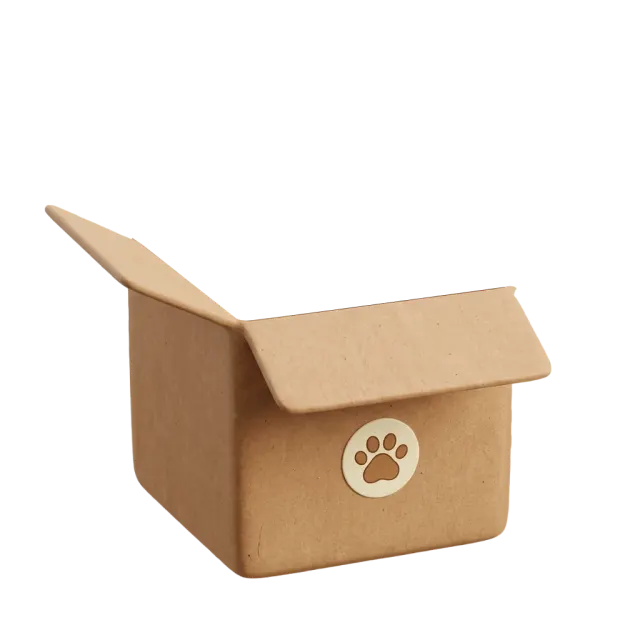
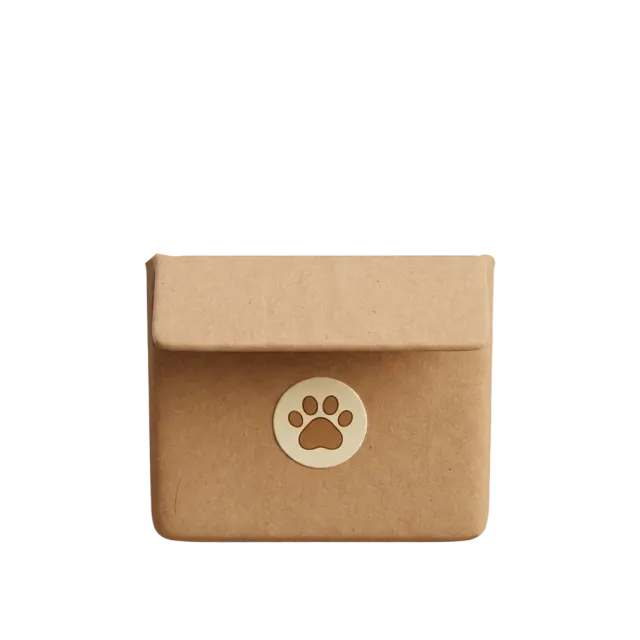
Лендінг: коробка анфас (картинки власника), тварини й обрізка під новий отвір

Changed region(s): [[0.0625, 0.3125, 0.875, 0.9062]]

diff --git a/assets/landing.css b/assets/landing.css
@@ -653,14 +653,14 @@ footer .copy { margin-left: auto; }
 .foot { padding-top: clamp(40px, 6vw, 80px); }
 .foot-cta { align-items: end; }
 .pb { width: min(100%, 400px); display: grid; justify-items: center; gap: 10px; margin-bottom: clamp(28px, 4vw, 48px); }
-.pb-box { position: relative; width: 100%; aspect-ratio: 1; margin: -12% 0 -14%; cursor: pointer; transform-origin: 52% 90%; }
+.pb-box { position: relative; width: 100%; aspect-ratio: 1; margin: -12% 0 -14%; cursor: pointer; transform-origin: 50% 85%; }
 .pb-box > img, .pb-pit, .pb-cast { position: absolute; inset: 0; width: 100%; height: 100%; }
 /* Яма: видно лише над вінцем коробки й усередині її силуету, тож тварина, пірнаючи, не вилазить знизу чи збоку. */
-.pb-pit { clip-path: polygon(0 0, 100% 0, 100% 45%, 79% 45%, 79% 84%, 40% 90.5%, 21% 77%, 21% 45%, 0 45%); }
-.pb-mv { position: absolute; left: 15%; top: 9%; width: 72%; height: auto; aspect-ratio: 1; transition: transform .3s cubic-bezier(.5,0,.75,0); }
+.pb-pit { clip-path: polygon(0 0, 100% 0, 100% 40%, 77% 40%, 77% 84.5%, 23% 84.5%, 23% 40%, 0 40%); }
+.pb-mv { position: absolute; left: 17%; top: 5.5%; width: 66%; height: auto; aspect-ratio: 1; transition: transform .3s cubic-bezier(.5,0,.75,0); }
 /* Підгонка висоти під вид (власник 18.11): кіт трохи нижче, кролик вище. */
-.pb-box[data-sp="cat"] .pb-mv { top: 12%; }
-.pb-box[data-sp="rabbit"] .pb-mv { top: 5%; }
+.pb-box[data-sp="cat"] .pb-mv { top: 8.5%; }
+.pb-box[data-sp="rabbit"] .pb-mv { top: 2%; }
 .pb-box.down .pb-mv { transform: translateY(78%); }
 .pb-box.up .pb-mv { transition: transform .55s cubic-bezier(.3,1.5,.5,1); }
 /* Тінь коробки на тварині: темніє донизу до вінця, по силуету самої тварини. */
@@ -668,7 +668,7 @@ footer .copy { margin-left: auto; }
   background: linear-gradient(to bottom, transparent 38%, rgba(60, 36, 12, .62) 54%); }
 /* Тінь тварини на коробці ззаду: силует, зсунутий назад-праворуч, лише там, де є коробка. */
 .pb-cast { -webkit-mask: url(box/back.webp) center / 100% no-repeat; mask: url(box/back.webp) center / 100% no-repeat; }
-.pb-cast .pb-mv { filter: brightness(0) blur(4px); opacity: .4; translate: 8% -3%; }
+.pb-cast .pb-mv { filter: brightness(0) blur(4px); opacity: .4; translate: 6% -4%; }
 .pb-box.wob { animation: pb-wob .5s ease-in-out; }
 @keyframes pb-wob { 25% { transform: rotate(-2.5deg); } 60% { transform: rotate(2deg); } 85% { transform: rotate(-.8deg); } }
 .pb-q { margin: 18px 0 8px; color: #fff; font-weight: 700; font-size: 1.05rem; }

diff --git a/en/index.html b/en/index.html
@@ -22,7 +22,7 @@
 <meta property="og:locale" content="en_US">
 <link rel="icon" href="/assets/favicon.png">
 <link rel="preload" href="/assets/fonts/Mulish_700Bold.ttf" as="font" type="font/ttf" crossorigin>
-<link rel="stylesheet" href="/assets/landing.css?v=02b5a048">
+<link rel="stylesheet" href="/assets/landing.css?v=ebbc9e01">
 <script>document.documentElement.classList.add('js');try{var th=localStorage.getItem('theme');if(th)document.documentElement.dataset.theme=th}catch(e){}</script>
 <script src="https://cdnjs.cloudflare.com/ajax/libs/gsap/3.12.5/gsap.min.js" defer></script>
 <script src="https://cdnjs.cloudflare.com/ajax/libs/gsap/3.12.5/ScrollTrigger.min.js" defer></script>

diff --git a/index.html b/index.html
@@ -22,7 +22,7 @@
 <meta property="og:locale" content="uk_UA">
 <link rel="icon" href="/assets/favicon.png">
 <link rel="preload" href="/assets/fonts/Mulish_700Bold.ttf" as="font" type="font/ttf" crossorigin>
-<link rel="stylesheet" href="/assets/landing.css?v=02b5a048">
+<link rel="stylesheet" href="/assets/landing.css?v=ebbc9e01">
 <script>document.documentElement.classList.add('js');try{var th=localStorage.getItem('theme');if(th)document.documentElement.dataset.theme=th}catch(e){}</script>
 <script src="https://cdnjs.cloudflare.com/ajax/libs/gsap/3.12.5/gsap.min.js" defer></script>
 <script src="https://cdnjs.cloudflare.com/ajax/libs/gsap/3.12.5/ScrollTrigger.min.js" defer></script>
